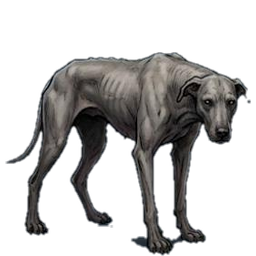
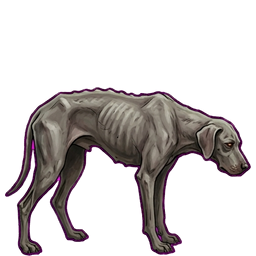
Repaint the six plates the restore could not save
D218 restored alpha where the paint survived and shipped; the player came back
with both hounds, the mother, the skeleton and the zombie. Two reasons, both
worth keeping.

The magenta sheet was read at 380px a cell. A hole clean through the ember
hound's chest reads as shading at that size and is unmistakable at 700px — it
was called clean twice. Use the sheet to pick suspects, then render suspects
large, one at a time.

And a restore cannot invent paint that was never there. The forge hound's
hindquarters came back as a reattached leg with a torn outline: better than a
severed one, still wrong. That boundary is visible before you start — force the
alpha opaque and look at what is underneath.

So these six are repainted on a magenta key, through the browser, since every
image model on this key reports a free-tier quota of zero: ember_hound,
forge_hound, crypt_hound, brood_mother, ossuary_wretch, bog_lurker.

Three findings from that batch, folded into the gemini-browser skill:

  - ask for a GRID; six creatures in one image agree on line weight and palette
    by construction and cost one generation instead of six. Split by connected
    component, not grid arithmetic;
  - the generator stamps a four-point sparkle and FORBIDDEN does not stop it.
    Harmless beside a cutout (despeckle drops it) and it leaves a diamond hole
    with no paint under it when it lands ON the subject — which is the one scar
    D218 correctly said could not be restored;
[…]

diff --git a/DESIGN.md b/DESIGN.md
@@ -207,6 +207,7 @@ Entries are not in numeric order in the file below; this is the way in.
 | **D216** | [A card that cost nothing could not be played, and the game gave the wrong reason twice](#d216--a-card-that-cost-nothing-could-not-be-played-and-the-game-gave-the-wrong-reason-twice) |
 | **D217** | [Three of the four things the floor can offer you had no button](#d217--three-of-the-four-things-the-floor-can-offer-you-had-no-button) |
 | **D218** | [The half of the damage that was joined to the field, so nothing had ever looked for it](#d218--the-half-of-the-damage-that-was-joined-to-the-field-so-nothing-had-ever-looked-for-it) |
+| **D219** | [Six plates the restore could not save, and the generator that had been leaving scars](#d219--six-plates-the-restore-could-not-save-and-the-generator-that-had-been-leaving-scars) |
 
 **D1–D34 are not in that table.** They were settled before the log grew
 sections and live as bullets under [§4 Design decisions](#4-design-decisions).
@@ -14295,3 +14296,51 @@ off backdrops and never took off these. At the size a plate is drawn they are su
 invisible; chasing them is how D199's re-cut ended up making all thirty-five files 5-25
 points more opaque to fix six. The diamonds also cannot be restored, only inpainted: the
 paint under them is genuinely gone, because it was the stamp.
+
+### D219 — Six plates the restore could not save, and the generator that had been leaving scars
+
+D218 restored the alpha on `grave_moth`, `forge_hound` and `ossuary_wretch` and shipped. The
+player came back with **both hounds, the mother, the skeleton and the zombie** — so the
+restore was necessary and not sufficient, and the reason is worth writing down.
+
+**The magenta sheet was read at the wrong size.** D218 judged 35 plates in a 5x7 grid at
+380px a cell. `ember_hound` has a hole through its chest that is unmistakable at 700px and
+reads as shading at 380; it was called clean twice. The instrument was right and the way it
+was used was not: **render the suspects large and one at a time, and only use the contact
+sheet to decide which are suspects.**
+
+**And a restore cannot invent paint that was never there.** Where D218's finding holds — the
+pipeline writes only alpha — the repair is exact and it fixed the moth's wings outright.
+Where the source painting is itself ragged it cannot: `forge_hound`'s hindquarters restored
+to a reattached leg with a torn outline and a floating wedge, better than a severed leg and
+still wrong. That is the boundary between the two repairs, and it is visible before you
+start: force the alpha opaque and look at what is underneath.
+
+**So these six were repainted**, on a flat magenta key per D200, through the browser
+(`gemini-browser`) because every image model on this key reports a free-tier quota of zero.
+`ember_hound`, `forge_hound`, `crypt_hound`, `brood_mother`, `ossuary_wretch`, `bog_lurker`.
+
+**Three things that batch taught, all now in the skill.**
+
+*Ask for a GRID.* Six creatures in one 1264x844 image agree on line weight and palette by
+construction rather than by prompting, and cost one of the day's ~20 generations instead of
+six. Split by connected component afterwards, never by grid arithmetic — the model does not
+honour a tidy 3x2 — and require "spaced well apart, none touching", because subjects that
+touch merge into one blob that cannot be separated.
+
+*The generator stamps a four-point sparkle and FORBIDDEN does not stop it.* Every image in
+this batch carried one. For a cutout it costs nothing — the despeckle drops it as a stray
+island, and `install_cutouts` duly reported 1 to 31 of them per file. **But when the stamp
+lands ON the subject the matte cuts it out and leaves a diamond-shaped hole with no paint
+under it**, which is exactly the scar `ossuary_wretch` and `marrow_priest` carry and the one
+defect in this whole family that D218 correctly said could not be restored. The cause was
+never a mystery in the pipeline; it was upstream, in the tool.
+
+*Judge the ASPECT, not the picture.* `combat.gd` stretches a plate's whole canvas into a
+square slot, so what the player sees is scaled by how much of the canvas the subject fills.
+The first brood-mother came back sprawling at 1.78:1 and filled **53% of its canvas height
+against the 86% of the art it replaced** — a boss that would have been drawn at 60% of its
+size, with nothing wrong in the picture and nothing to notice by eye. Re-asked as "TALLER
+THAN IT IS WIDE, filling the frame top to bottom, limbs folded in close rather than
+sprawling sideways", it came back at 98%. **Measure the bounding box against the canvas
+after installing**; it is a one-line check and it is the only thing that catches this.

diff --git a/AGENTS.md b/AGENTS.md
@@ -847,6 +847,13 @@ These are failure modes that have actually bitten this project. Treat each as a 
   because **a cutout can only be judged against something brighter than it** — over a dark
   corridor a hole reads as shadow.
 
+  **And a correct instrument read at the wrong SIZE is still a miss (D219).** That sheet was
+  judged at 380px a cell and a hole clean through a hound's chest was called clean twice; it
+  is unmistakable at 700px. Use the contact sheet to pick suspects and then render the
+  suspects large, one at a time. The same rule as the 48px relic strip, in the other
+  direction: **judge at the size the defect is visible, which is not always the size the
+  thing is drawn.**
+
   **And a list of STATES rots the same way a list of screens does (D217).** Every iso
   capture photographs a floor being *walked*, and a walk never stops at an offer — so the
   row of buttons that carries push, answer, break-away and the stone had never been in a
